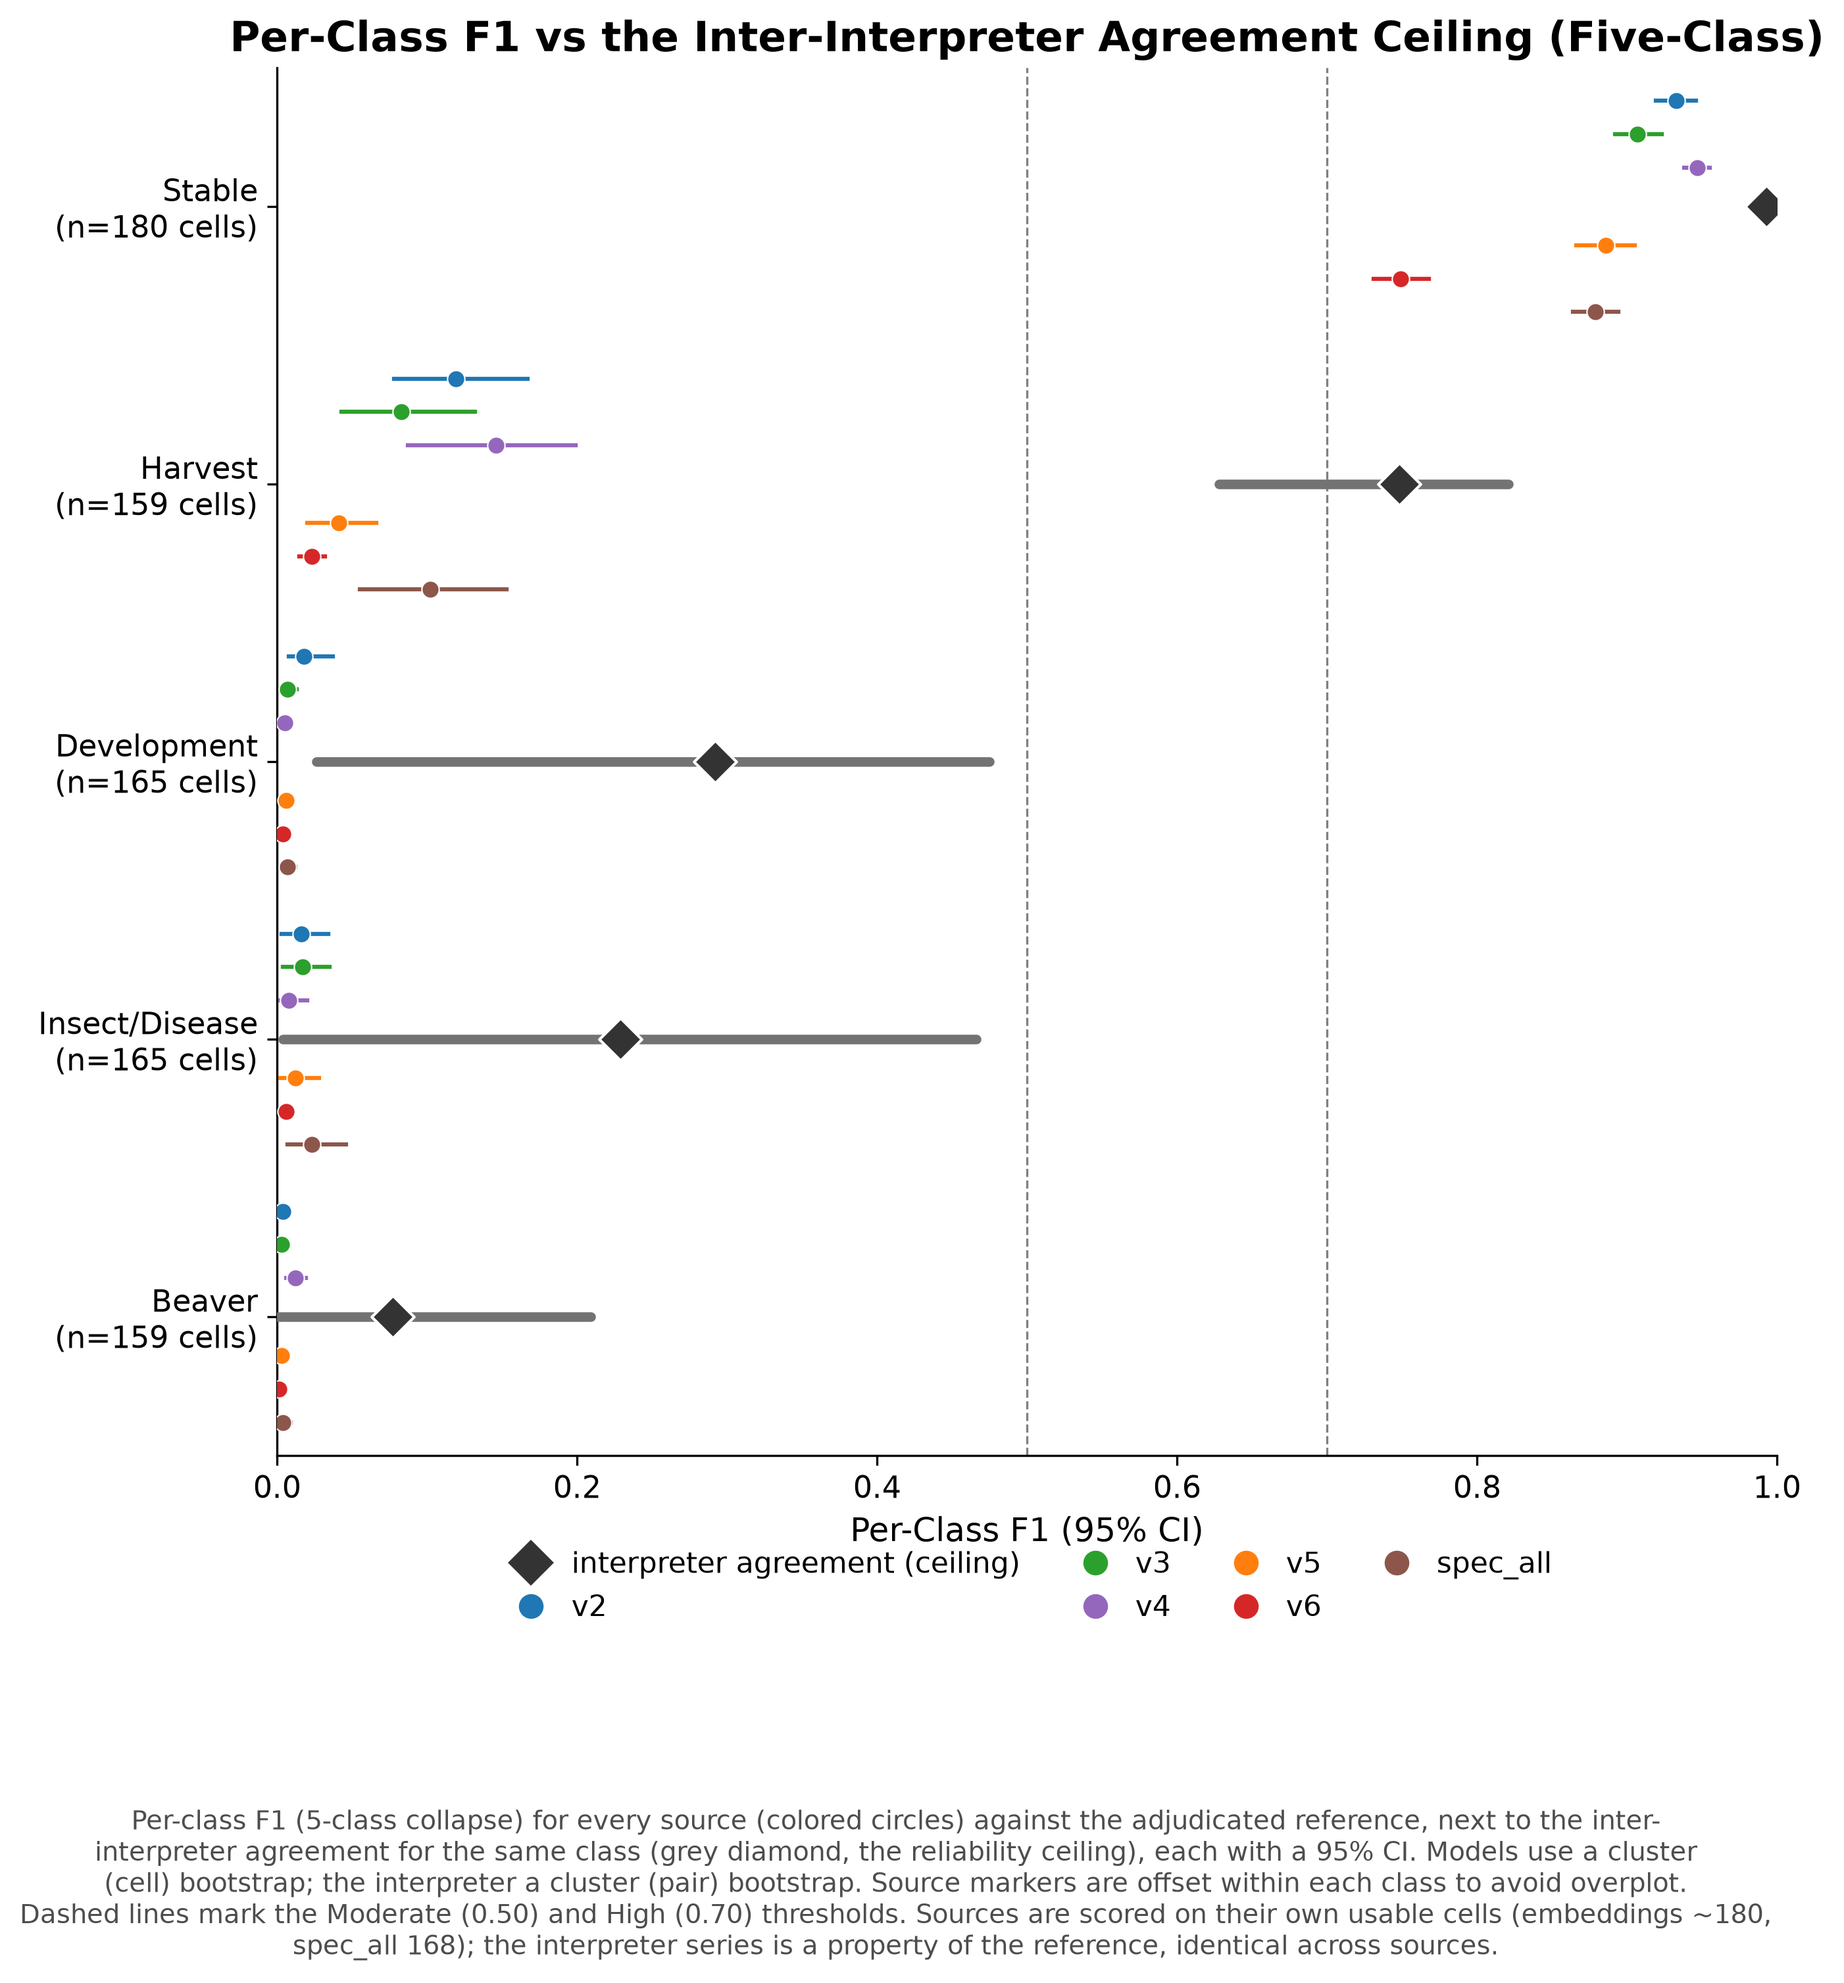
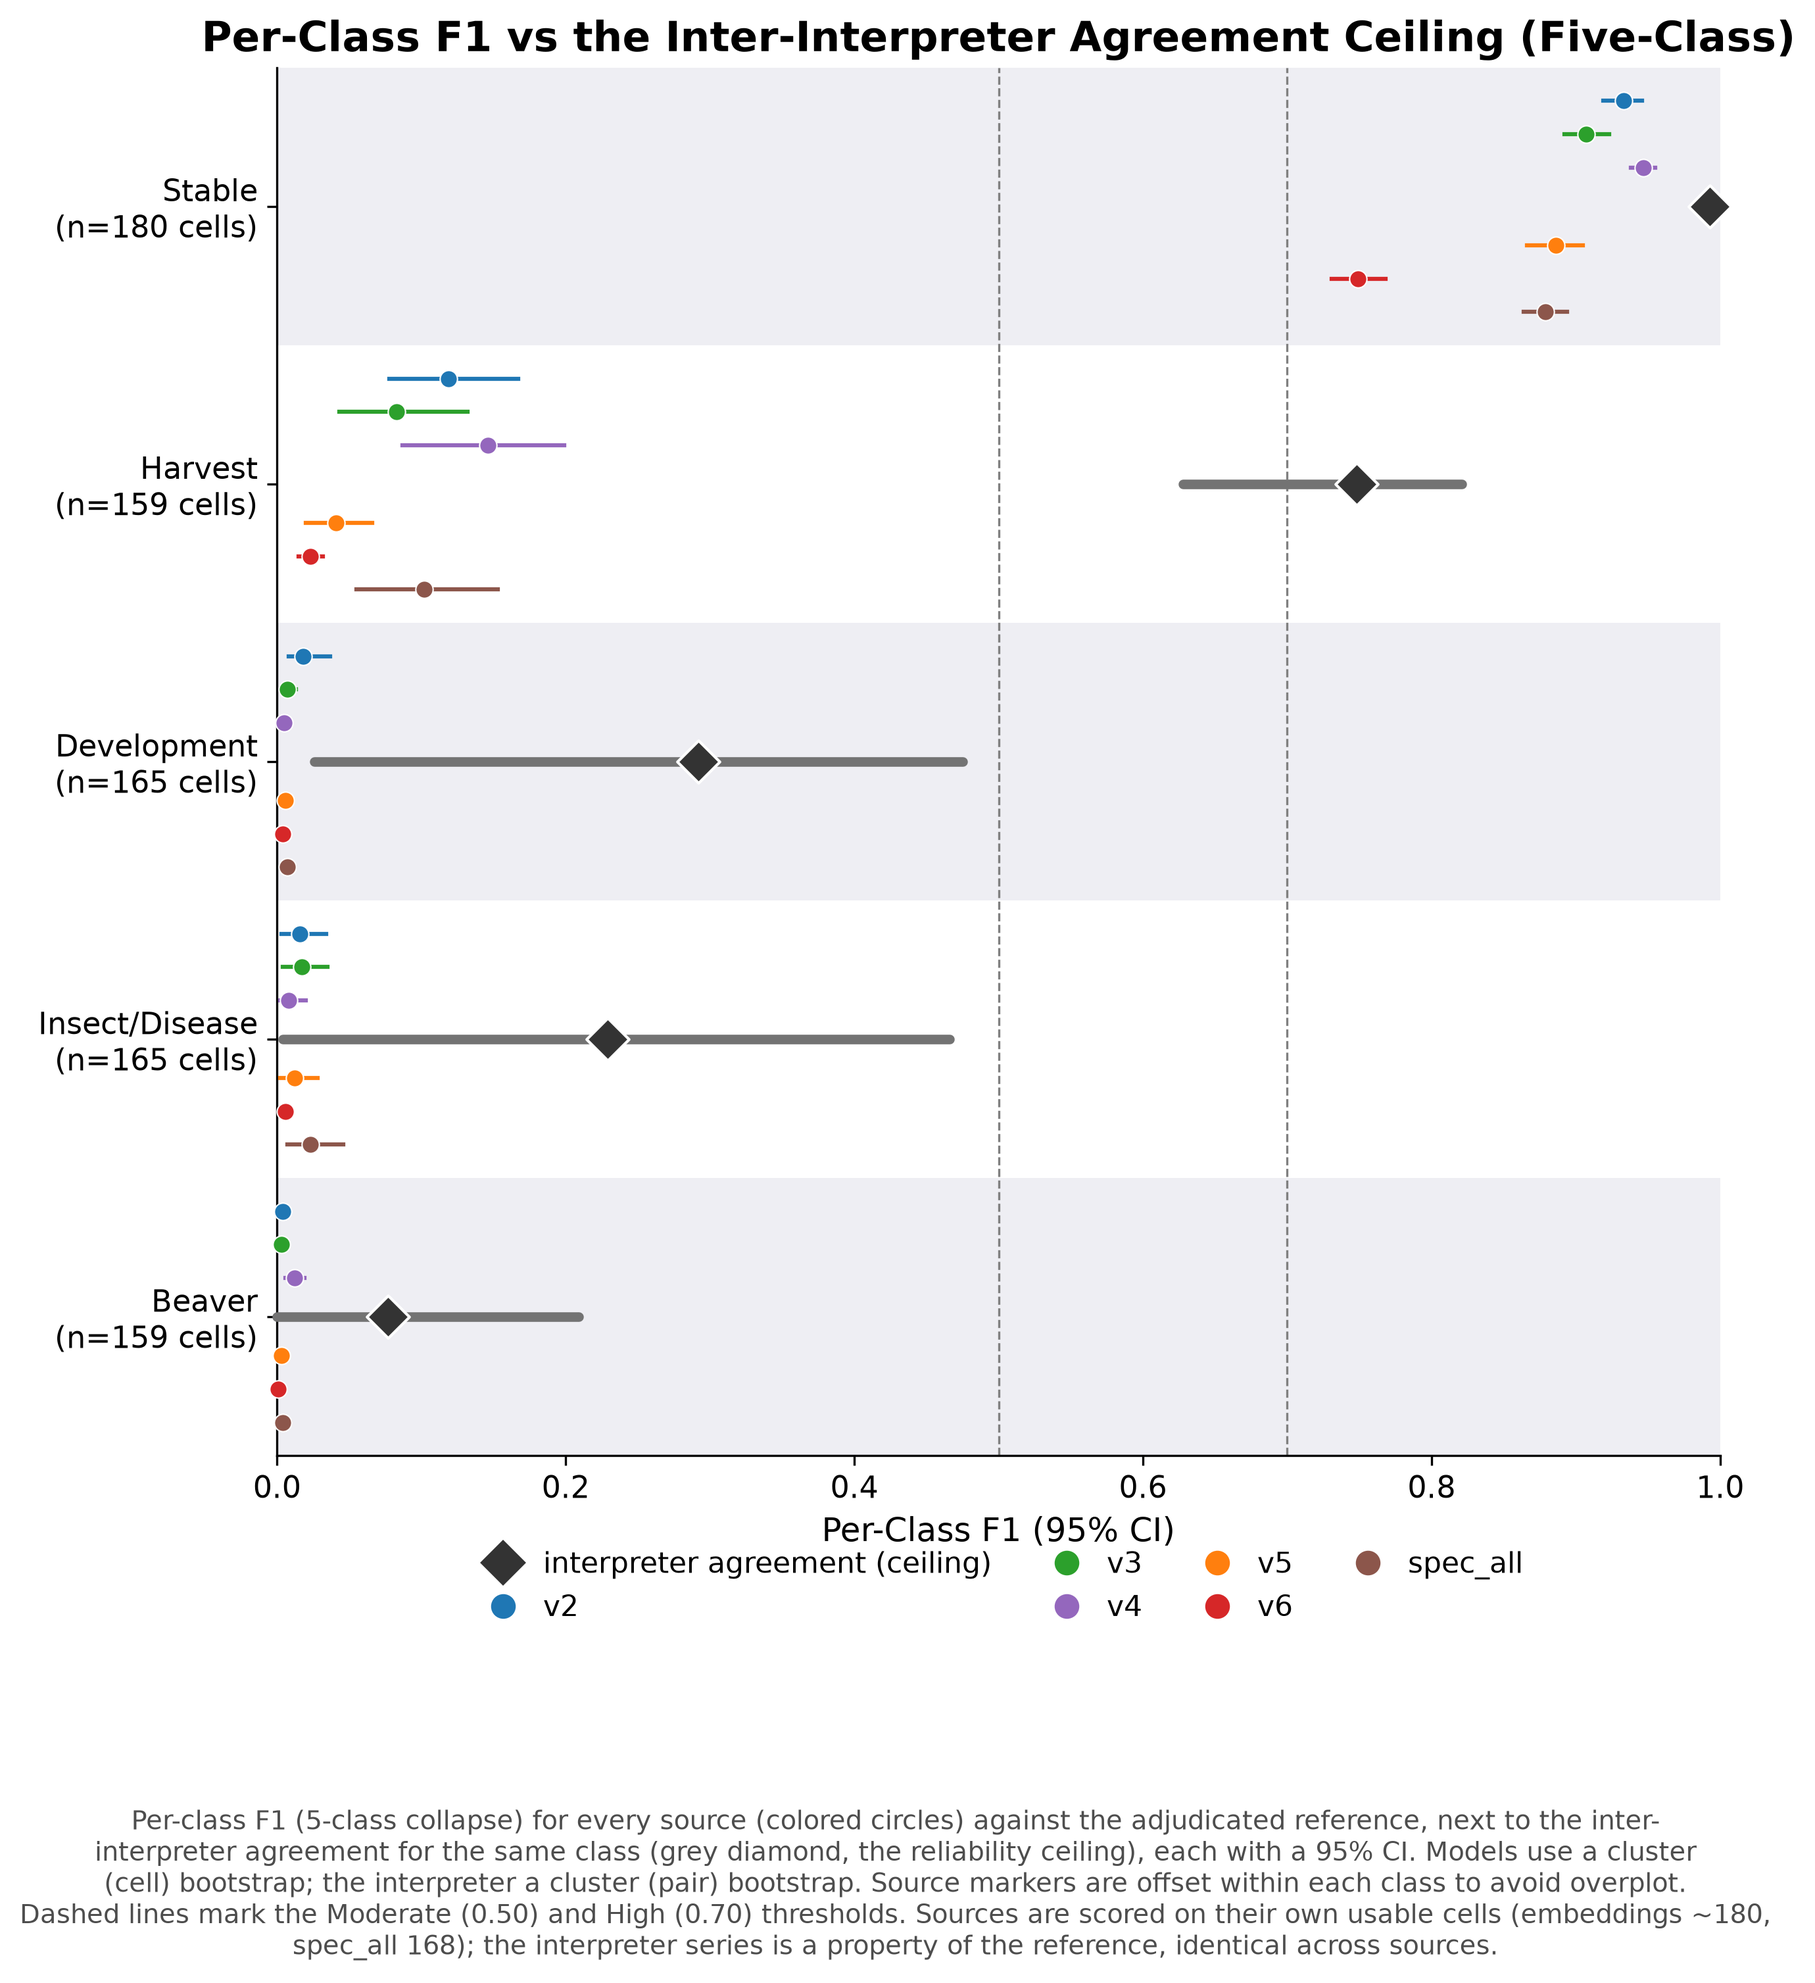
all-sources ceiling overlay: fix right clipping + add alternating class bands
Markers draw past the axis (clip_on=False) so the Stable interpreter diamond at F1~0.99 is
no longer cut off (0-1 range unchanged); light alternating background bands per class make
the groups easier to distinguish.

diff --git a/scripts/model_class_ci_5class.py b/scripts/model_class_ci_5class.py
@@ -210,7 +210,12 @@ def forest_overlay_all(source_dfs, interp_df, label_n, n_by_source, path):
     y = np.arange(len(ORDER))
     offs = np.array([-0.38, -0.26, -0.14, 0.14, 0.26, 0.38])     # v2, v3, v4, v5, v6, spec_all
     fig, ax = plt.subplots(figsize=(9.5, 10.5))
-    fig.subplots_adjust(left=0.17, right=0.97, top=0.93, bottom=0.26)
+    fig.subplots_adjust(left=0.17, right=0.94, top=0.93, bottom=0.26)
+
+    # alternating light background bands so the class groups are easy to tell apart
+    for i in range(len(ORDER)):
+        if i % 2 == 0:
+            ax.axhspan(i - 0.5, i + 0.5, facecolor="#eeeef3", edgecolor="none", zorder=0)
 
     for i, c in enumerate(ORDER):
         # each source: colored circle + thin interval, offset above/below the class line
@@ -219,16 +224,17 @@ def forest_overlay_all(source_dfs, interp_df, label_n, n_by_source, path):
             if c not in md.index:
                 continue
             r = md.loc[c]
-            ax.plot([r.f1_lo, r.f1_hi], [i + off, i + off], color=SRC_COLOR[s], lw=1.5, zorder=3)
+            ax.plot([r.f1_lo, r.f1_hi], [i + off, i + off], color=SRC_COLOR[s], lw=1.5, zorder=3,
+                    clip_on=False)
             ax.scatter(r.f1, i + off, color=SRC_COLOR[s], marker="o", s=40, zorder=4,
-                       edgecolor="white", linewidths=0.5)
+                       edgecolor="white", linewidths=0.5, clip_on=False)
         # interpreter agreement (human ceiling): dominant grey diamond + thick interval, centered
         if c in idf.index:
             r = idf.loc[c]
             ax.plot([r.f1_lo, r.f1_hi], [i, i], color="0.45", lw=3.5, zorder=5,
-                    solid_capstyle="round")
+                    solid_capstyle="round", clip_on=False)
             ax.scatter(r.f1, i, color="0.2", marker="D", s=120, zorder=6, edgecolor="white",
-                       linewidths=1.0)
+                       linewidths=1.0, clip_on=False)
 
     ax.set_yticks(y)
     ax.set_yticklabels([f"{NAMES5[c]}\n(n={label_n.get(c, 0)} cells)" for c in ORDER])
